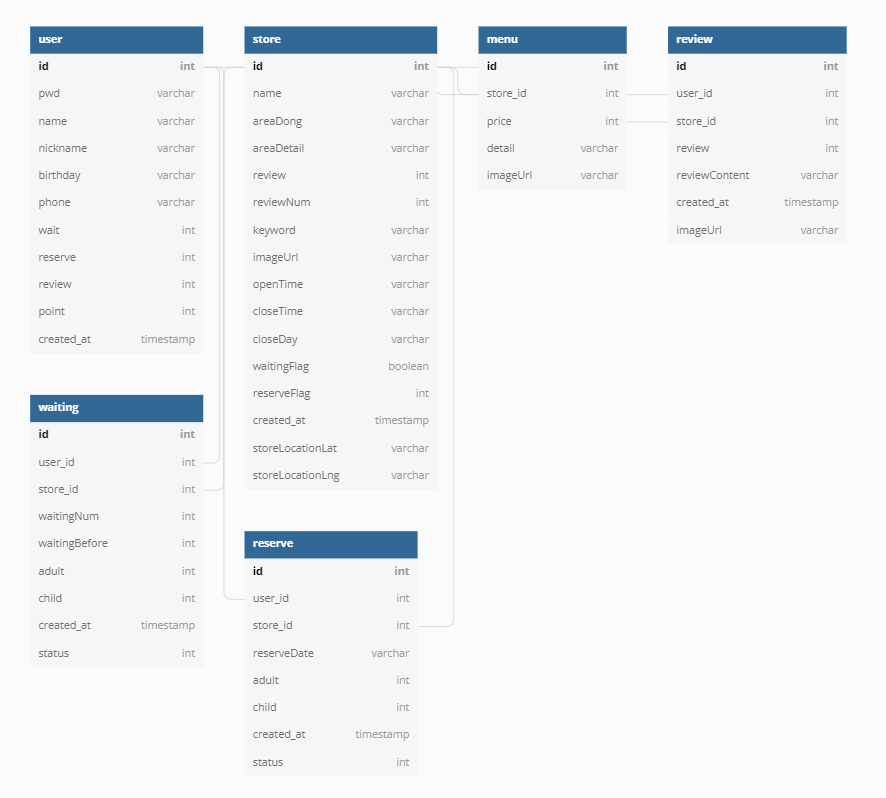
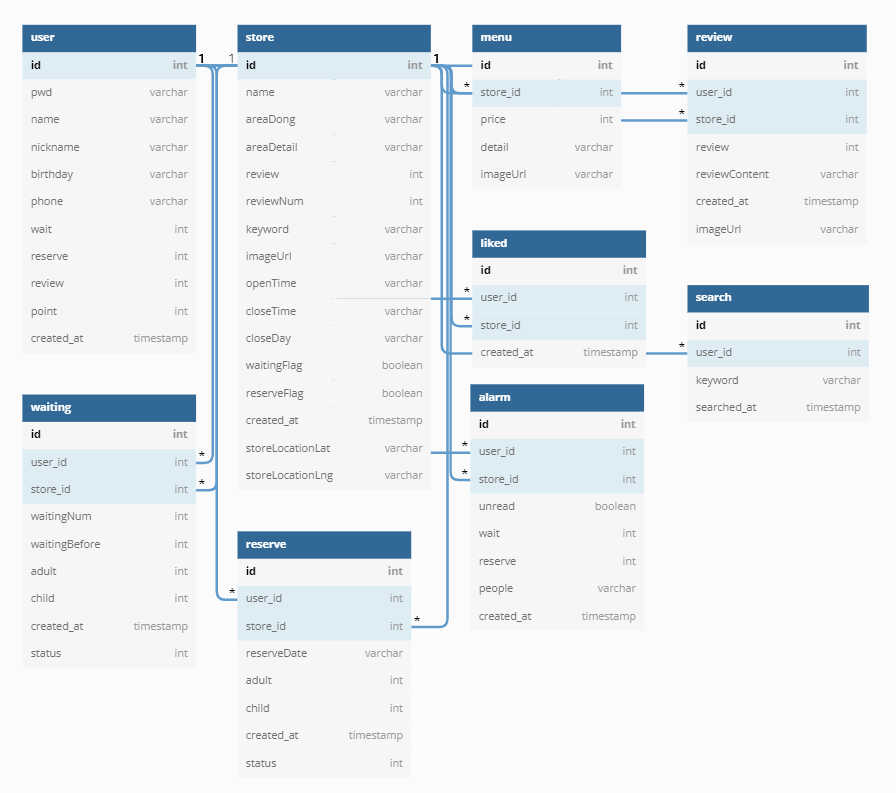
[Etc] fix README file and update dbdiagram image file

diff --git a/README.md b/README.md
@@ -1,12 +1,15 @@
 # 웨이링 (Wait-Ring)
-원격 웨이팅 서비스로, 각 매장에 웨이팅/예약 신청을 위한 사이트입니다.
 
-<img src="./readme-assets/waitring5.gif" height="450px" />
-<img src="./readme-assets/waitring7.gif" height="450px" />
+## Description
+원격 웨이팅 서비스로, 인기 음식점 정보 제공 및 리뷰 공유,
+음식점 웨이팅/예약 신청을 위한 리액트 웹앱입니다.
+
+<img src="./readme-assets/waitring5.gif" /> 
+<img src="./readme-assets/waitring7.gif" />
 
 
 
-## 기획/설계
+### 기획/설계
 - [화면 설계 (Figma)](https://www.figma.com/file/AsbTomoY56L7CQqMFpSG2k/WaitRing?node-id=0%3A1)
 ![화면 설계](./readme-assets/figma.jpeg)
 
@@ -15,7 +18,7 @@
 
 
 
-## Goals
+### Goals
 
 + 화면 설계를 기반으로 화면을 만들 수 있다
 + 재사용성을 위해, 최대한 작은 컴포넌트 단위로 분리할 수 있다
@@ -23,8 +26,22 @@
 + <s>미디어쿼리를 통해 반응형 웹을 만들 수 있다</s>
 
 
+## Quick Start
++ install
+```
+git clone https://github.com/callu9/wait-ring
+npm install
+```
++ run
+```
+npm start
+```
+
+
 ## TODO
 
++ 반응형 웹을 위한 미디어쿼리 적용
+    + [ref. 블로그 (반응형 웹을 만들어보자)](https://coding-hwije.tistory.com/21)
 + 소셜 로그인/회원가입 적용
     + [ref. 블로그 (React로 카카로, 네이버 소셜 로그인 구현하기)](https://2dowon.netlify.app/react/social_login/)
 + CRUD 위한 Firebase 적용
@@ -36,4 +53,4 @@
     + [ref. 블로그 (React 프로젝트, 정적 사이트 Netlify에 배포하기)](https://goddaehee.tistory.com/306)
 + PWA 전환
     + [ref. 블로그 (React 앱을 PWA로 만들기)](https://kwanghyuk.tistory.com/200)
-+ 가게용 웨이링 서비스 제작
++ 점포용 웨이링 서비스 제작
